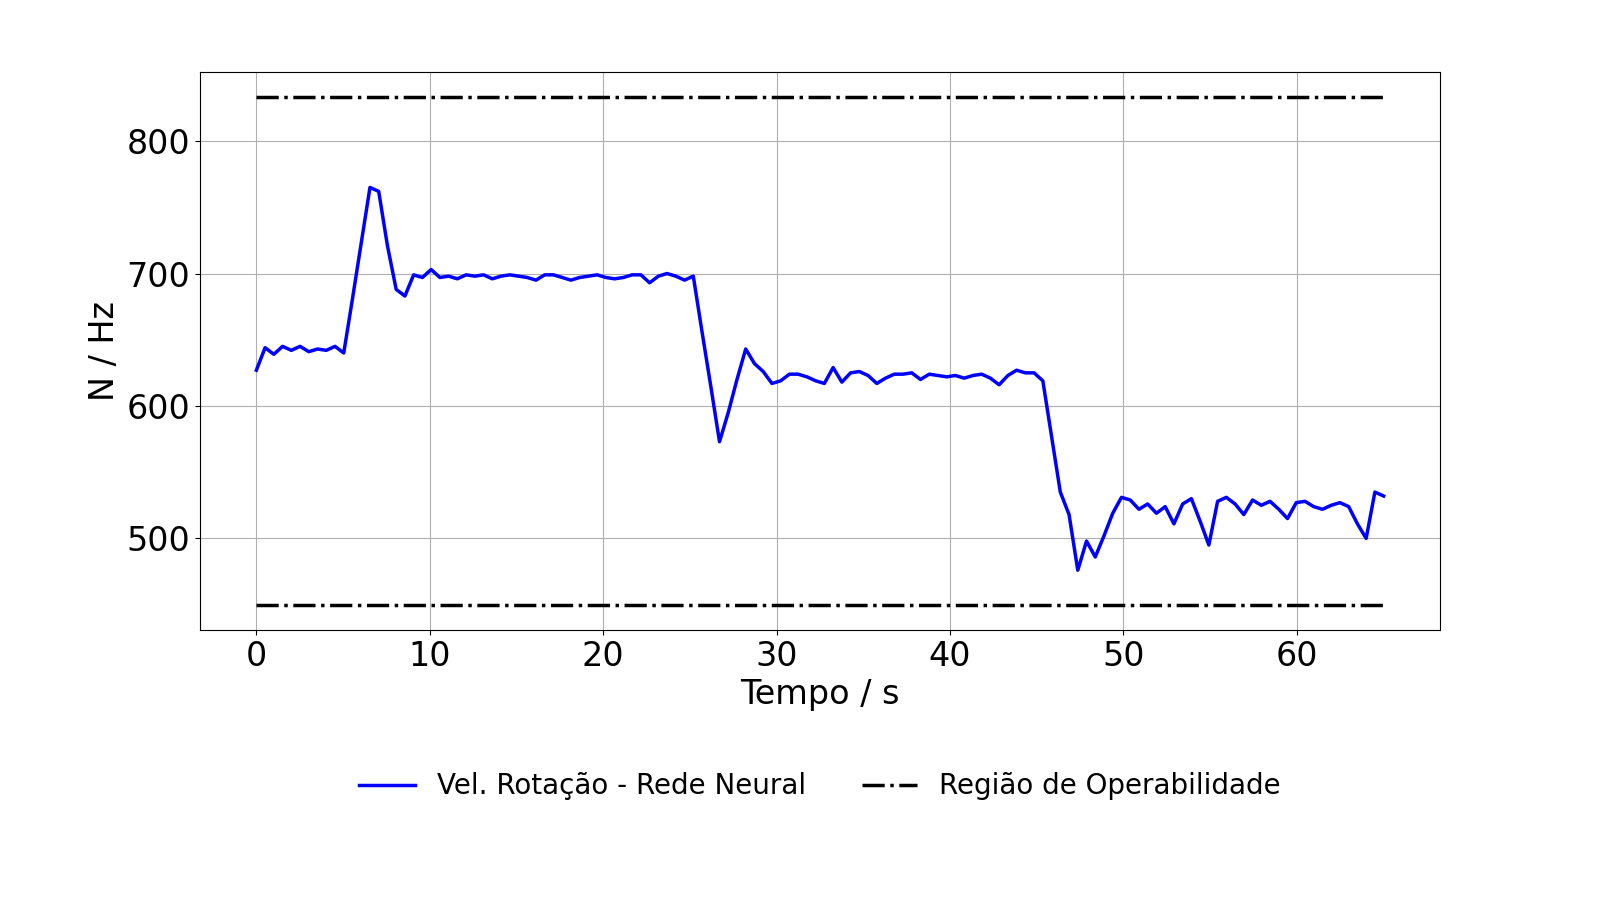
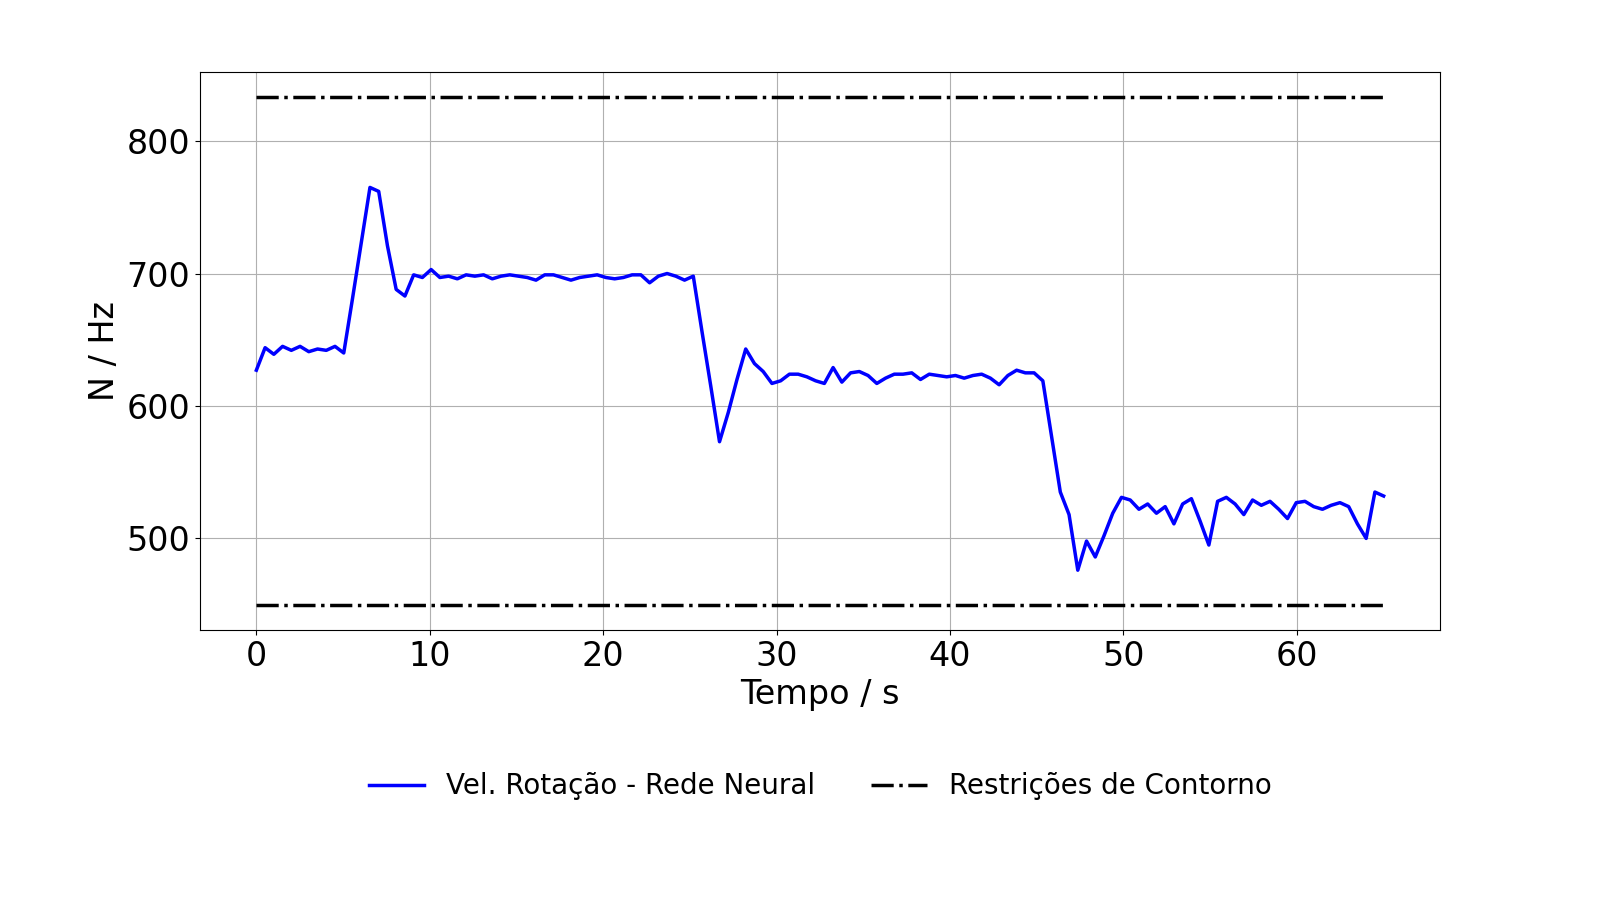
comit

Changed region(s): [[0.2812, 0.84, 0.5, 0.9022], [0.5938, 0.84, 0.8125, 0.9022]]

diff --git a/NNMPC/Compare.py b/NNMPC/Compare.py
@@ -49,7 +49,7 @@ def superPlot(iter_NN, Ymk_NN,
     plt.plot(x_NN / 2, np.array(Ymk_NN)[:, 0], label="Modelo - Rede Neural", color='green', linewidth=2.5)
     plt.plot(x_NN / 2, np.array(Ypk_NN)[:, 0], label="Planta - Rede Neural", color="blue", linewidth=2.5)
     plt.plot(x_NN / 2, YspM_NN.squeeze(), linestyle="--", color="red", label="Set Point", linewidth=2.5)
-    plt.plot(x_NN / 2, YmMin_NN, linestyle="-.", color="black", label="Região de Operabilidade", linewidth=2.5)
+    plt.plot(x_NN / 2, YmMin_NN, linestyle="-.", color="black", label="Restrições de Contorno", linewidth=2.5)
     plt.plot([0, iter_NN / 2], [12.3, 12.3], linestyle="-.", color="black", linewidth=2.5)
     plt.ylabel("Vazão / kg/s")
     plt.xlabel("Tempo / s")
@@ -65,7 +65,7 @@ def superPlot(iter_NN, Ymk_NN,
     plt.plot(x_CA / 2, np.array(Ymk_CA)[:, 0], label="Modelo - Nominal", color='green', linewidth=2.5)
     plt.plot(x_CA / 2, np.array(Ypk_CA)[:, 0], label="Planta - Nominal", color="blue", linewidth=2.5)
     plt.plot(x_CA / 2, YspM_CA.squeeze(), linestyle="--", color="red", label="Set Point", linewidth=2.5)
-    plt.plot(x_CA / 2, YmMin_CA, linestyle="-.", color="black", label="Região de Operabilidade", linewidth=2.5)
+    plt.plot(x_CA / 2, YmMin_CA, linestyle="-.", color="black", label="Restrições de Contorno", linewidth=2.5)
     plt.plot([0, iter_CA / 2], [12.3, 12.3], linestyle="-.", color="black", linewidth=2.5)
     plt.ylabel("Vazão / kg/s")
     plt.xlabel("Tempo / s")
@@ -81,7 +81,7 @@ def superPlot(iter_NN, Ymk_NN,
     plt.plot(x_NN / 2, np.array(Ymk_NN)[:, 1], label="Modelo - Rede Neural", color="green", linewidth=2.5)
     plt.plot(x_NN / 2, np.array(Ypk_NN)[:, 1], label="Planta - Rede Neural", color="blue", linewidth=2.5)
     plt.plot(x_NN / 2, YspP_NN.squeeze(), linestyle="--", color="red", label="y_sp", linewidth=2.5)
-    plt.plot([0, iter_NN / 2], [5.27, 5.27], linestyle="-.", color="black", label="Região de Operabilidade", linewidth=2.5)
+    plt.plot([0, iter_NN / 2], [5.27, 5.27], linestyle="-.", color="black", label="Restrições de Contorno", linewidth=2.5)
     plt.plot([0, iter_NN / 2], [9.3, 9.3], linestyle="-.", color="black", linewidth=2.5)
     plt.ylabel("Pressão / kPa")
     plt.xlabel("Tempo / s")
@@ -97,7 +97,7 @@ def superPlot(iter_NN, Ymk_NN,
     plt.plot(x_CA / 2, np.array(Ymk_CA)[:, 1], label="Modelo - Nominal", color="green", linewidth=2.5)
     plt.plot(x_CA / 2, np.array(Ypk_CA)[:, 1], label="Planta - Nominal", color="blue", linewidth=2.5)
     plt.plot(x_CA / 2, YspP_CA.squeeze(), linestyle="--", color="red", label="y_sp", linewidth=2.5)
-    plt.plot([0, iter_CA / 2], [5.27, 5.27], linestyle="-.", color="black", label="Região de Operabilidade", linewidth=2.5)
+    plt.plot([0, iter_CA / 2], [5.27, 5.27], linestyle="-.", color="black", label="Restrições de Contorno", linewidth=2.5)
     plt.plot([0, iter_CA / 2], [9.3, 9.3], linestyle="-.", color="black", linewidth=2.5)
     plt.ylabel("Pressão / kPa")
     plt.xlabel("Tempo / s")
@@ -111,7 +111,7 @@ def superPlot(iter_NN, Ymk_NN,
     # Abertura da Válvula x Tempo (NN)
     plt.figure(figsize=(16, 9))
     plt.plot(x_NN / 2, np.array(Upk_NN)[:, 0], label="Abertura - Rede Neural", color="blue", linewidth=2.5)
-    plt.plot([0, iter_NN / 2], [0.35, 0.35], linestyle="-.", color="black", label="Região de Operabilidade", linewidth=2.5)
+    plt.plot([0, iter_NN / 2], [0.35, 0.35], linestyle="-.", color="black", label="Restrições de Contorno", linewidth=2.5)
     plt.plot([0, iter_NN / 2], [0.65, 0.65], linestyle="-.", color="black", linewidth=2.5)
     plt.ylabel("Alpha / %")
     plt.xlabel("Tempo / s")
@@ -124,7 +124,7 @@ def superPlot(iter_NN, Ymk_NN,
     # Abertura da Válvula x Tempo (CA)
     plt.figure(figsize=(16, 9))
     plt.plot(x_CA / 2, np.array(Upk_CA)[:, 0], label="Abertura - Nominal", color="blue", linewidth=2.5)
-    plt.plot([0, iter_CA / 2], [0.35, 0.35], linestyle="-.", color="black", label="Região de Operabilidade", linewidth=2.5)
+    plt.plot([0, iter_CA / 2], [0.35, 0.35], linestyle="-.", color="black", label="Restrições de Contorno", linewidth=2.5)
     plt.plot([0, iter_CA / 2], [0.65, 0.65], linestyle="-.", color="black", linewidth=2.5)
     plt.ylabel("Alpha / %")
     plt.xlabel("Tempo / s")
@@ -137,7 +137,7 @@ def superPlot(iter_NN, Ymk_NN,
     # Velocidade de Rotação x Tempo (NN)
     plt.figure(figsize=(16, 9))
     plt.plot(x_NN / 2, np.array(Upk_NN)[:, 1]//60, label="Vel. Rotação - Rede Neural", color="blue", linewidth=2.5)
-    plt.plot([0, iter_NN / 2], [27e3//60, 27e3//60], linestyle="-.", color="black", label="Região de Operabilidade", linewidth=2.5)
+    plt.plot([0, iter_NN / 2], [27e3//60, 27e3//60], linestyle="-.", color="black", label="Restrições de Contorno", linewidth=2.5)
     plt.plot([0, iter_NN / 2], [5e4//60, 5e4//60], linestyle="-.", color="black", linewidth=2.5)
     plt.ylabel("N / Hz")
     plt.xlabel("Tempo / s")
@@ -150,7 +150,7 @@ def superPlot(iter_NN, Ymk_NN,
     # Velocidade de Rotação x Tempo (CA)
     plt.figure(figsize=(16, 9))
     plt.plot(x_CA / 2, np.array(Upk_CA)[:, 1]//60, label="Vel. Rotação - Nominal", color="blue", linewidth=2.5)
-    plt.plot([0, iter_CA / 2], [27e3//60, 27e3//60], linestyle="-.", color="black", label="Região de Operabilidade", linewidth=2.5)
+    plt.plot([0, iter_CA / 2], [27e3//60, 27e3//60], linestyle="-.", color="black", label="Restrições de Contorno", linewidth=2.5)
     plt.plot([0, iter_CA / 2], [5e4//60, 5e4//60], linestyle="-.", color="black", linewidth=2.5)
     plt.ylabel("N / Hz")
     plt.xlabel("Tempo / s")
@@ -168,9 +168,9 @@ def superPlot(iter_NN, Ymk_NN,
     plt.hist(Tempos_NN, bins=20, color='blue', alpha=0.7, edgecolor='black', label ="PIRNN-MPC")
     plt.axvline(np.mean(Tempos_NN), color='blue', linestyle="--", label=f"Média PIRNN-MPC")
     print(f"Média PIRNN-MPC: {np.mean(Tempos_NN):.2f} s")
-    plt.axvline(0.5, color='green', linestyle="--", label="Tempo de Amostragem")
+    plt.axvline(0.5, color='green', linestyle="--", label="Tempo Amostral")
     plt.axvspan(0, 0.5, color='gray', alpha=0.3, label="Região de Interesse")  # Adiciona a região cinza claro
-    plt.xlabel("Tempo")
+    plt.xlabel("Tempo / s")
     plt.ylabel("Frequência")
     configurar_legenda()
     plt.tight_layout(h_pad=3.0)
